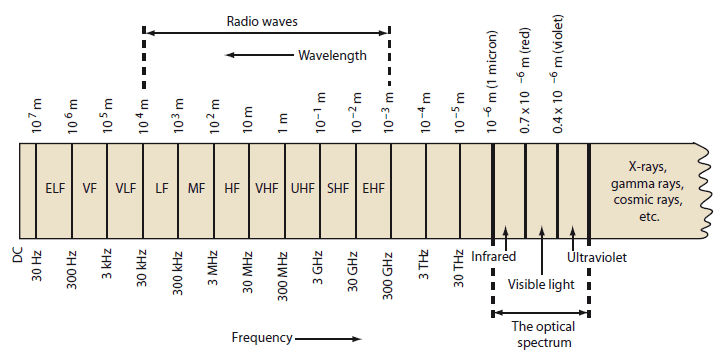
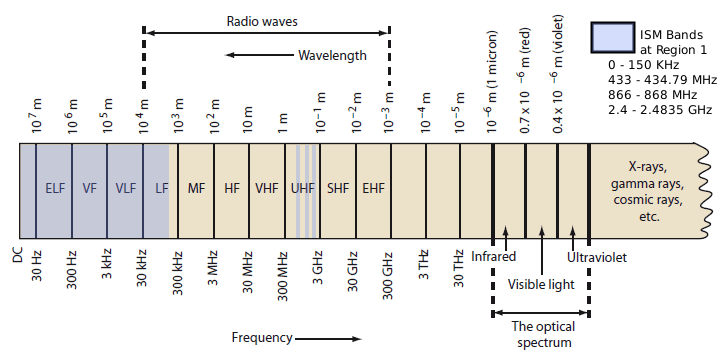
corregido cap 2

Changed region(s): [[0.0305, 0.3994, 0.2441, 0.676], [0.7933, 0.0615, 1.0, 0.338], [0.3967, 0.3994, 0.4577, 0.676]]

diff --git a/Capitulos/02StateOfArt.tex b/Capitulos/02StateOfArt.tex
@@ -48,14 +48,14 @@ from being used, even when this use would not cause noticeable interference to t
 
 \figuraEx{Vectorial/Capitulo2/spectrumuse}{width=.7\textwidth}{fig:spectrum}%
 {A snapshot of the spectrum utilization up to 6 GHz in an urban area: taken at
-mid-day with 20 kHz resolution taken over a time span of 50 microseconds with a 30
+mid-day with 20 kHz resolution over a time span of 50 microseconds with a 30
 degree directional antenna at Berkeley Wireless Research Center \cite{seung}.}{A snapshot of the spectrum utilization up to 6 GHz in an urban area at BWRC}
 
 The concept of \ac{CR} was first published by Joseph Mitola III and Gerald Q. Maguire, Jr. in 1999\cite{mitola1} and later on within Mitola's phD Dissertation in 2000\cite{mitola2}. It describes a novel paradigm for wireless communication in which a wireless device changes its transmission or reception parameters to communicate efficiently. This alteration of parameters is based on the active monitoring of several factors in the external and internal radio environment, such as radio frequency spectrum, application behavior, and network state. The idea was thought of as an ideal goal towards which a \ac{SDR} platform should evolve.
 
 The \ac{CR} is defined as an intelligent wireless communication system that is aware of its environment and uses the methodology of understanding-by-building\cite{brainempower} to learn from the environment and adapt to statistical variations in the input stimuli, with two primary objectives:
 \begin{itemize}
-\item Hihighly reliable communications.
+\item Highly reliable communications.
 \item Efficient utilization of the radio spectrum.
 \end{itemize}
 
@@ -78,9 +78,9 @@ Attending to some subtle differences between systems we can differenciate two ma
 \item \emph{Full Cognitive Radio  or Mitola radio}, in which every possible parameter observable by a wireless node is considered.\cite{mitola1}
 \end{itemize}    
 
-Although cognitive radio was initially thought of as full cognitive radio, most research work focuses on spectrum-sensing cognitive radio,  particularly in the TV bands. The great problem in spectrum-sensing cognitive radio is designing high-quality spectrum-sensing devices and algorithms for exchanging the so called knoledge domain \cite{brainempower}. The practical implementation of spectrum-management functions is a complex and multifaceted issue, since it must address a variety of technical and legal requirements.
+Although cognitive radio was initially thought of as full cognitive radio, most research work focuses on spectrum-sensing cognitive radio,  particularly in the TV bands. The great problem in spectrum-sensing cognitive radio is designing high-quality spectrum-sensing devices and algorithms for exchanging the so called knowledge domain \cite{brainempower}. The practical implementation of spectrum-management functions is a complex and multifaceted issue, since it must address a variety of technical and legal requirements.
 
-Picture \ref{fig:CWSNsoftModel} ilustrates the changes the \ac{OSI} model suffer when affected by cognition. \ac{CR} model can be referred to the first and second layers, thus the \emph{Phisical} and \emph{Link} layers. 
+Picture \ref{fig:CWSNsoftModel} illustrates the changes the \ac{OSI} model suffer when affected by cognition. \ac{CR} model can be referred to the first and second layers, thus the \emph{Physical} and \emph{Link} layers. 
 
 \figura{Vectorial/Todo}{width=.5\textwidth}{fig:CWSNsoftModel}%
 {CWSN protocol model}
@@ -103,7 +103,7 @@ The main functions of \ac{CR} devices are:\cite{dsa}\cite{CRfunctionality}
 
 \item \emph{Cooperative detection}: Refers to spectrum-sensing methods where information from multiple \ac{CR} users is integrated\cite{sensing}.
 
-\item \emph{Interference-based detection}. It tries to take advantage of the difference between the detected noise level and the maximum noise level the primary users can afford. In this way, if there is enough difference, the nodes might stablish \ac{RF} activity considered by primary users as just noise. This technique is not so common because of disagreements with primary users. 
+\item \emph{Interference-based detection}. It tries to take advantage of the difference between the detected noise level and the maximum noise level the primary users can afford. In this way, if there is enough difference, the nodes might establish \ac{RF} activity noticeable by primary users as simple noise. This technique is not so common because of disagreements with primary users. 
 \end{itemize}
 
 \item \emph{Power Control}: Power control is used for both, opportunistic spectrum access, and spectrum sharing \ac{CR} systems. On the one hand, opportunistic spectrum access techniques aim to find the cut-off level in \ac{SNR} supporting the channel allocation. On the other hand, \ac{CR} systems find imposing interference power constraints for the primary user's protection. In~\cite{threshold} a joint power control and spectrum sensing is proposed for capacity maximization.
@@ -312,15 +312,15 @@ The standard goal is a low-power communication among nearby devices without unde
 \begin{figure}[h]
 \centering
 
-\subfloat[ISA100.11 logo]{\label{fig:cap2:isa100}\includegraphics[width=0.2\textwidth]{Imagenes/Vectorial/Capitulo2/isalogo}}%
+\subfloat[ISA100.11 logo]{\label{fig:cap2:isa100}\includegraphics[width=0.18\textwidth]{Imagenes/Vectorial/Capitulo2/isalogo}}%
 \quad
-\subfloat[WiFi logo]{\label{fig:cap2:wifi}\includegraphics[width=0.2\textwidth]{Imagenes/Vectorial/Capitulo2/wifi}}%
+\subfloat[WiFi logo]{\label{fig:cap2:wifi}\includegraphics[width=0.18\textwidth]{Imagenes/Vectorial/Capitulo2/wifi}}%
 \quad
-\subfloat[ZigBee logo]{\label{fig:cap2:zigbee}\includegraphics[width=0.2\textwidth]{Imagenes/Vectorial/Capitulo2/zigbee}}%
+\subfloat[ZigBee logo]{\label{fig:cap2:zigbee}\includegraphics[width=0.18\textwidth]{Imagenes/Vectorial/Capitulo2/zigbee}}%
 \\
-\subfloat[WirelessHART logo]{\label{fig:cap2:hart}\includegraphics[width=0.4\textwidth]{Imagenes/Vectorial/Capitulo2/hart}}%
+\subfloat[WirelessHART logo]{\label{fig:cap2:hart}\includegraphics[width=0.3\textwidth]{Imagenes/Vectorial/Capitulo2/hart}}%
 \quad
-\subfloat[MiWi logo]{\label{fig:cap2:miwi}\includegraphics[width=0.4\textwidth]{Imagenes/Vectorial/Capitulo2/miwi}}%
+\subfloat[MiWi logo]{\label{fig:cap2:miwi}\includegraphics[width=0.3\textwidth]{Imagenes/Vectorial/Capitulo2/miwi}}%
 
 \caption{Common WSN protocols.}
 \label{fig:cap2:wsnprotocols}
@@ -343,7 +343,7 @@ Cognitive communication in a sensor network could not only help meet end-to-end 
 sensor networks that combines the advantage of opportunistic spectrum access at the physical layer, with cognitive communication among sensor nodes seamlessly across the network promises to be advantageous over existing design techniques. Figure \ref{fig:comparisoncr} shows a performance comparison between a standard \ac{WSN} comunnicating over 2.4 GHz and a \ac{CR}-based one in a simulated scenario. 
 
 
-\figuraEx{Vectorial/Capitulo2/comparisonCR}{width=.7\textwidth}{fig:comparisoncr}%
+\figuraEx{Bitmap/Capitulo2/comparisonCR}{width=.7\textwidth}{fig:comparisoncr}%
 {Number of hops per packet comparison in a CWSN simulated scenario described in \cite{crbasedwsn}}{Number of hops per packet comparison in a CWSN simulated scenario}
 
 However, research efforts have been discrete and cognitive techniques have focused on improving specific aspects of the network or benefiting specific applications.
@@ -424,7 +424,7 @@ NS3 would be written from scratch, not being compatible with NS2 generally. Deve
 
 Libraries and packages for cognitive simulation\cite{ns21} exist for these simulators, however, models, parameters, and results are still quite poor and inaccurate.  
 
-\item \emph{OMNeT++}\cite{omnet}. It is not a simulator itself but rather an extensible, modular, multiplatform, component-based C++ simulation library and framework. Instead of containing a real time cognitive radio test-bed for physical and link layer experiments, explicit and hardwired support for computer networks or other areas, it provides the infrastructure for writing such simulations. OMNeT++ provides a component architecture for models. Components (modules) are programmed in C++, then assembled into larger components and models using a high-level language (NED). 
+\item \emph{OMNeT++}\cite{omnet}. It is not a simulator itself but rather an extensible, modular, multiplatform, component-based C++ simulation library and framework. Instead of containing a real time cognitive radio environment for physical and link layer experiments, and explicit support for computer networks or other areas, it provides the infrastructure for writing such simulations. OMNeT++ provides a component architecture for models. Components (modules) are programmed in C++, then assembled into larger components and models using a high-level language (NED). 
 
 \figura{Vectorial/Capitulo2/omnetlogo}{width=.3\textwidth}{fig:omnetlogo}%
 {OMNeT++ Simulator Logo}
@@ -470,12 +470,9 @@ Several other simulators have been developed for \ac{WSN}. TOSSIM based on the T
 Nowadays there are not real devices for \ac{CWSN} applications yet. Current implementations respond to development platforms or test-beds, and still, variety of platforms is very scarce and poorly featured. Most of them suppose the first approaches on its field, so foundations to build over are still inmature and quickly changing. Hence, efforts focussed on hardware development, usuallyl more costly than software, remain quiet.
 
 The closest existing device to a \ac{CWSN} node is the \ac{FCD}\cite{fcd}\cite{ferpfc}, Figure \ref{fig:fcdadapted}, developed at \ac{LSI} in 2011. The \ac{FCD} is based on a Microchip 32-bits \ac{PIC} and includes three radio interfaces enabling access to the 2.4 GHz band and 868 MHz. MiWi and WiFi protocols operate over 2.4 GHz and a propietary protocol provided by \ac{AWD}\footnote{A radio interface developed by \ac{AWD}, a spin-off originated at \ac{LSI}, 
-oriented on solutions for energy efficiency, industrial control and intelligent environments.} operates over 868 MHz. The device gave the chance to develop and test algorithms, strategies and applications for \ac{CWSN}. Moreover, it allowed to analyse suitability for radio interfaces, compute capability and other components. It gave the strengths and weaknesses to stablish the fundamentals on future designs. Nevertheless, the device was just a first approach and it was still far to be a stable valuable test-bed platform. The node did not fully satisfy requirements in terms of low power consumption, cost and size, and communication capabilities.
+oriented on solutions for energy efficiency, industrial control and intelligent environments.} operates over 868 MHz. The device gave the chance to develop and test algorithms, strategies and applications for \ac{CWSN}. Moreover, it allowed to analyse suitability for radio interfaces, compute capability and other components. It gave the strengths and weaknesses to stablish the fundamentals on future designs. Nevertheless, the device was just a first approach and it was still far to be a stable valuable test-bed platform\cite{juapfc}. The node did not fully satisfy requirements in terms of low power consumption, cost and size, and communication capabilities.
 
 Consecutively, new hardware and software modules were incorporated to expand its features. These modules included a expansion board\cite{guillepfc} to try new transceiver options together with an optimized, \ac{CWSN} oriented firmware and a cognitive software module. This new modules claim for a new design integrating together all of them at one single module, fixing detected weaknesses and adding new or improved features. 
-
-%paper del labocon carenciasSSSSSSSSSSSSSSSSSSSSSSSSSSSSSSSSSSSSSSSSSSSSSSSSSSSSSSSSSSSSSSSS
-
 
 \figura{Bitmap/Capitulo2/fcdadapted}{width=.5\textwidth}{fig:fcdadapted}%
 {Picture of First Cognitive Device expanded}
@@ -519,10 +516,13 @@ To enable \ac{CR} capabilities on VESNA, a radio front-end was developed, the SN
 SNE-ISMTV-UHF contains a VHF and UHF TV band receiver based on the NXP TDA18219HN silicon tuner and was designed for spectrum sensing experimentation in TV white spaces. SNE-ISMTV-UHF can receive signals from 470 to 870 MHz with channel filter bandwidths between 1.7 MHz and 10 MHz. Using an analogue detector with a logarithmic response it can be used for energy detection experiments with the resolution bandwidth identical to the channel filter setting and approximately 50 ms per channel sampling. The detector is also coupled with an A/D converter optionally providing 1 Msample/s of the amplitude of the baseband signal. The samples can then be further digitally analyzed in software on the sensor node for more advanced spectrum
 sensing methods.
 
-
 SNE-ISMTV-868 and SNE-ISMTV-2400 are based on the TI CC1101 and TI CC2500 integrated circuits respectively and are identical in design and operation except for the supported frequency band. These transceivers contain software-reconfigurable radio front-ends operating from 780 and 930 MHz and from 2.40 to 2.48 GHz with channel bandwidths from 60 to 800 kHz and frequency-agile local oscillators with 75 ms settling time. They include an integrated logarithmic detector for energy detection and several modems that can be either connected to integrated packet handling hardware or provide a raw baseband digital stream to and from the CPU. This makes it possible to support experiments that require packet based as well as continuous transmissions.
 
+This platform does not offer frequency agility over several frequency bands since it just host possibilities for a single \ac{RF} front-end and this front-end support fix bands. It does not suppose a complete \ac{CWSN} solution.
+
 \item \emph{WaspMote}. It is an ultra low-power consumption sensor node developed and marketed by Libelium\footnote{http://www.libelium.com} based on an ATmega1281 microcontroller. It provides a socket for radio interfaces and several standarized input/output options. Libelium offers up to 60 different sensor expansion boards and 6 different radio options. An attachable board enables connection for two radio interfaces. It is thought to be a versatile node valid for a wide range of \ac{WSN} applications.
+
+WaspMote, however, does not give chances for more than two \ac{RI}s. Frequency agility is, hence, bounded to two spectrum bands. Moreover, it does not give software support for easy radio management and application development. It still supposes a poor \ac{CWSN} solution.
 
 \begin{figure}[h!]
 \centering
@@ -544,9 +544,11 @@ SNE-ISMTV-868 and SNE-ISMTV-2400 are based on the TI CC1101 and TI CC2500 integr
 \label{fig:cap2:waspmotepics}
 \end{figure}
 
-\item \emph{Meshlium}. Meshlium, also from Libelium, works as the Gateway of the Waspmote \ac{SN}. It reads the sensor frames coming from the nodes and store them in its internal data base and in external cloud systems located on the Internet. The frames coming from Waspmote are normally received by the 802.15.4/ZigBee radio and sent to the Internet using Ethernet, WiFi and 3G interfaces.
+\item \emph{Meshlium}. Meshlium, also from Libelium, works as the gateway of the Waspmote \ac{SN}. It reads the sensor frames coming from the nodes and store them in its internal data base and in external cloud systems located on the Internet. The frames coming from Waspmote are normally received by the 802.15.4/ZigBee radio and sent to the Internet using Ethernet, WiFi and 3G interfaces.
 
-\begin{figure}[h!]
+Even though Meshlium posses several interfaces, it can not be considered a \ac{WSN}. This platform is extrictly thought as a gateway, so it is not a valid \ac{CWSN} solution.
+
+\begin{figure}[!h]
 \centering
 %
 \begin{SubFloat}
@@ -568,15 +570,38 @@ SNE-ISMTV-868 and SNE-ISMTV-2400 are based on the TI CC1101 and TI CC2500 integr
 
 \end{itemize}
 
-Other deployed \ac{CWSN} devolpment platforms placed at researching centers, so called test-beds, are employed to obtain data and try algorithms to feedback simulators and node devices themselves. Most of here mentioned test-beds do not include nodes with access to several radio bands, but rather several kind of nodes having different single interfaces each. Main current test-beds are: 
+European Commission \ac{FP7}\cite{fp7} includes two major projects involving \ac{CR} technologies: CogEU\cite{cogeu} and CREW\cite{crew}. CogEu looks at technical, business and regulatory issues which arise in exploiting TV White Spaces across Europe, while CREW main target is to establish an open federated test platform, which facilitates experimentally-driven research on advanced spectrum sensing, cognitive radio and cognitive networking strategies in view of horizontal and vertical spectrum sharing in licensed and unlicensed bands.
+
+The CREW platform incorporates 5 individual wireless test-beds\footnote{Devolpment platforms consisting on a set of interacting devices placed at researching centers employed to obtain data and try algorithms to feedback simulators and node devices themselves.}, Figure \ref{fig:cap2:crew}, incorporating diverse wireless technologies (heterogeneous \ac{ISM}, heterogeneous licensed, cellular, wireless sensor, heterogeneous outdoor) augmented with State-of-the-Art cognitive sensing platforms. Three out of these five test-beds are involved in \ac{WSN} technologies: w-iLab.t, TWIST, and LOG-a-TEC test-beds. These three platforms are explained further on together with the remaining test-bed platforms.
+
+\figura{Bitmap/Capitulo2/crew}{width=.7\textwidth}{fig:cap2:crew}{CREW Project scheme overview.}
+
+Main current \ac{CWSN} test-beds are described below. Most of here mentioned test-beds do not include real \ac{WSN} nodes. If they do, these nodes still do not posses access to several radio bands, but rather several kind of nodes posses different single interfaces each:  
 
 \begin{itemize}
 \item \emph{TWIST (TKN Wireless Indoor Sensor network Test-bed)}\cite{twist}. Developed by the \ac{TKN} at the \ac{TU} Berlin, is one of the largest academic test-beds for experimenting with \ac{WSN} applications at indoor deployment scenarios. It provides basic services like node configuration, network-wide programming, out-of-band extraction of debug data and gathering of application data, as well as several novel features  such as active power supply control of the nodes. The self-configuration capability, the use of hardware with standardized interfaces and open-source software makes the TWIST architecture scalable, affordable, and easily replicable. TWIST can be accessed locally or remotely via web interface.
 
 \figura{Bitmap/Capitulo2/twist}{width=.7\textwidth}{fig:twistmap}%
-{One floor deployment of TWIST test-bed}
+{One floor deployment of TWIST test-bed.}
 
-It spans the three floors, more than 40 rooms, of an office building at the TU Berlin campus, resulting in more than 1500 m$^{2}$ of instrumented office space. Currently the setup is populated with 102 TmoteSky\cite{tmotesky} nodes operating over 2.4 GHz and 102 eyesIFX\cite{eyes} nodes over 868 MHz resulting in a fairly regular grid deployment pattern with intra node distance of 3m. A set of low-cost USB WiSpy Spectrum Analyzers for the 2.4 GHz band dig over data and store it on a repository, this information is used as data-base for the \ac{CR} algorithms and spectrum use optimization.
+It spans the three floors, more than 40 rooms, of an office building at the TU Berlin campus, resulting in more than 1500 m$^{2}$ of instrumented office space. Currently the setup is populated with 102 TmoteSky\cite{tmotesky} nodes operating over 2.4 GHz and 102 eyesIFX\cite{eyes} nodes over 868 MHz resulting in a fairly regular grid deployment pattern with intra node distance of 3 m. A set of low-cost USB WiSpy Spectrum Analyzers for the 2.4 GHz band dig over data and store it on a repository, this information is used as data-base for the \ac{CR} algorithms and spectrum use optimization.
+
+It must be clarified that nodes employed at TWIST lack frequency agility beyond their single frequency band. Hence, none of them can be considered \ac{CWSN} nodes. Even though the test-bed supposes an approach, it is not yet a completely valid and trustable \ac{CWSN} platform.  
+
+\item \emph{LOG-a-TEC}\cite{logatec}. The Cognitive radio experimentation part of the LOG-a-TEC testbed is located in the municipality of Logatec, Slovenia. LOG-a-TEC is an outdoor experimental facility supporting cognitive radio networking experimentation in ISM and TV bands. It is equipped with 50 VESNA\cite{vesna} platforms and VSE-ISMTV\cite{sneismtv} boards grouped in two clusters: one in city center and one in the industrial zone as displayed in the Figure \ref{fig:cap2:logatec}. The nodes support experimentation in ISM 868 MHz (blue), ISM 2.4 GHz (red) and TV 42 - 870 MHz (green). A small mirror, consisting of 10 nodes, is also available at Institut "Jozef Stefan" campus.
+
+Same with TWIST testbed, nodes employed here lack frequency agility beyond their single frequency band. Hence, none of them can be considered \ac{CWSN} nodes.
+ 
+\figura{Bitmap/Capitulo2/logatec}{width=.6\textwidth}{fig:cap2:logatec}{LOG-a-TEC nodes clusters deployment}
+
+\item \emph{w-iLab.t} It includes both a wireless mesh and sensor network infrastructure. These networks can interact with each other, making it possible to test advanced scenarios such as using the mesh network as a backbone for the sensor network. The test-bed is equipped with a custom designed hardware solutions, called EE (Environment Emulator). Using the EE, it is possible to emulate the behavior of any type of sensor or actuator without the need for real sensor/actuator hardware. 
+The w-iLab.t testbed is deployed in an office building of 18 x 90 m and is spread out over three floors. It consists out of 200 node locations, Figure \ref{fig:wilab}, at fixed locations at the iMinds\cite{iminds} office premises. 
+
+\figura{Bitmap/Capitulo2/wilab}{width=.6\textwidth}{fig:wilab}{Node locations of the w-iLab.t tes-tbed }
+
+Every w-iLab.t node is generic and is equipped with one or more TmoteSky\cite{tmotesky} nodes, an iNode with 2 WiFi 802.11 radios, the environment emulator and a Bluetooth interface. iNodes are Alix 3C3\cite{alix} devices running Linux. These are mini PC's equipped with Ethernet, USB, serial, vga, audio and two IEEE 802.11 a/b/g interfaces. Finally, the Environment Emulator is located in between the iNode and the TmoteSky. 
+
+Together with the previous mentioned test-beds, devices used for w-iLab do not meet \ac{CWSN} features since they are either standard \ac{WSN} nodes or complete mini PC modules.
 
 \item \emph{VT-CORNET (Virginia Tech COgnitive Radio NEtwork Test-bed)}\cite{vtcornet}. It is a collection of \ac{CR} nodes deployed throughout a building on the Virginia Tech main campus. The test-bed is openly available for the purposed of performing advanced \ac{CRN}. The test-bed consists of a total of 48 static \ac{SDR} nodes based on USRP2\footnote{The \ac{USRP} family features a modular architecture with interchangeable daughterboard modules that serve as the RF front end.}, located in the ceiling throughout the ICTAS building, being placed 12 nodes per floor. In addition to the static nodes, low-power mobile nodes will also be available in order provide a research environment that accomodates a wide variety of research topics.
 
@@ -585,10 +610,7 @@ It spans the three floors, more than 40 rooms, of an office building at the TU B
 
 Remotely accessible, emphasis is on cognitive engine design, self-organizing networking algorithms, and network security. The test-bed enables researchers to implement and test their algorithms, protocols, applications, and hardware technologies within a realistic environment.
 
-\item \emph{LOG-a-TEC}\cite{logatec}. The Cognitive radio experimentation part of the LOG-a-TEC testbed is located in the municipality of Logatec, Slovenia. LOG-a-TEC is an outdoor experimental facility supporting cognitive radio networking experimentation in ISM and TV bands. It is equipped with 50 VESNA\cite{vesna} platforms and VSE-ISMTV\cite{sneismtv} boards grouped in two clusters: one in city center and one in the industrial zone as displayed in the Figure \ref{fig:cap2:logatec}. The nodes support experimentation in ISM 868 MHz (blue), ISM 2.4 GHz (red) and TV 42 - 870 MHz (green). A small mirror, consisting of 10 nodes, is also available at Institut "Jozef Stefan" campus.
-
-\figura{Bitmap/Capitulo2/logatec}{width=.6\textwidth}{fig:cap2:logatec}{LOG-a-TEC nodes clusters deployment}
-
+Devices used at this platform are not even real \ac{WSN} nodes. Despite their possibilities for frequency mobility, the solution implemented in this test-bed is not a real \ac{CWSN} implementation.  
 
 \item \emph{FIT/CorteXlab - Cognitive Radio Test-bed}\cite{fitcortex}. This test-bed, still under deployment, will be hosted at INSA-Lyon in France. CorteXlab will suppose one more researching center of the Future Internet of Things project\cite{fit}. CorteXlab will use the network architecture developed in SensLAB\cite{senslab} and will integrate SDR nodes to offer a remotely accessible development platform for distributed \ac{CR}. Reconfigurability, compatibility, coexistence and even cooperation between \ac{SDR} nodes will be evaluable. A large set of heterogeneous \ac{SDR} nodes (\ac{MIMO} nodes, \ac{SISO} nodes and \ac{WSN} nodes) together with classical sensor nodes will permit a full experimental evaluation.
 
@@ -597,9 +619,11 @@ Remotely accessible, emphasis is on cognitive engine design, self-organizing net
 The test-bed will be installed in 180 m$^{2}$ shielded room (isolated from any external interference) and also partly covered with \ac{EM} absorbing material. Depending on the set of enabled frequencies, the design of the room will enable to control the radio channel characteristics (number of paths, delays, etc...) and to ensure a high level of reproducibility of experimentations.
 
 
- \figura{Bitmap/Capitulo2/cortexlabmap}{width=.5\textwidth}{fig:cortexlabmap}{CorteXlab test-bed deployment}
+\figura{Bitmap/Capitulo2/cortexlabmap}{width=.5\textwidth}{fig:cortexlabmap}{CorteXlab test-bed deployment}
 
 Nodes will be uniformly distributed. These nodes will be able to accept \ac{PHY} layer implementations on both hardware, i.e. \ac{FPGA}, and software on general purpose CPUs.  Furthermore, they will be capable of outputing performance metrics, such as throughput, \ac{BER} and power consumption. The nodes are interconnected through a high speed ethernet link, in order to allow for cooperation and sharing of information. A unified server will also be available for starting, coordinating and collecting the results of experimentations. The experimentation themselves can be from \ac{PHY} layer up, including the possibility of cross-layer interactions.
+
+Despite the large amount of devices employed at this test-bed platform that combines different architectures and nodes, none of them are real \ac{CWSN} devices. Frequency mobility is achieve over \ac{SDR} modules, which can not even be considered for \ac{WSN} implementations. \ac{SDR} devices gather features not \ac{WSN}-compatible that collide with low-resources and low-consumption natures.
 \end{itemize}
 
 Standardization is at the core of the current and future success of cognitive radio. The IEEE 802.22\cite{80222web} working group is developing what will be first cognitive radio-based international standard for \ac{WRAN} with tangible frequency bands for its operation. It will operate on unused television channels. One system such as Unlicensed-Band Cognitive Radio, which can only utilize unlicensed parts of the \ac{RF} spectrum, is described in the IEEE 802.15 Task Group 2\cite{802152} specifications. This standard focus on the coexistence of IEEE 802.11 and Bluetooth. Many other standards such as WiFi (IEEE 802.11), Zigbee (IEEE 802.15.4), and WiMAX (IEEE 802.16) already include some degree of CR technology today. 

diff --git a/Capitulos/01Introduction.tex b/Capitulos/01Introduction.tex
@@ -30,12 +30,15 @@ A \ac{WSN} consists of a number of sensors spread across a geographical area. Ea
 
 Together with this significant growth in the last years, it was a huge and yet increasing wireless networks and sevices deployment caused by the growth in the ``Internet of Things'' connectivity phenomenon\cite{internetofthings}. Wireless communications, specially due to wireless \ac{M2M} connections, is currently one of the hottest and fastest growing segments of electronics. 
 
-The increasing demand for wireless communication, in addition to an inefficient assignment of the spectrum\cite{wpanIssues}, has caused saturation on certains bands of the radio spectrum. Some of the most heavily used bands are \ac{ISM} bands which are unlincesed, free of cost frequencies. Most \ac{WSN} solutions operate over these \ac{ISM} bands, like the 2.4 GHz band, also used by Wi-Fi, Bluetooth, or IEEE 802.15.4 devices. 
+The increasing demand for wireless communication, in addition to an inefficient assignment of the spectrum\cite{wpanIssues}, has caused saturation on certains bands of the radio spectrum. Some of the most heavily used bands are \ac{ISM} bands which are unlincesed, free of cost frequencies. Most \ac{WSN} solutions operate over these \ac{ISM} bands, like the 2.4 GHz band, also used by Wi-Fi, Bluetooth, or IEEE 802.15.4 devices. \ac{ISM} bands are defined by region by the \ac{ITU} and local goverments ultimately. Figure \ref{fig:cap1:ituregions} illustrates the different defined regions and Figure \ref{fig:cap1:spectrum} gives a general view of the spectrum and \ac{ISM} bands over region 1.
 
-\figura{Bitmap/Capitulo1/spectrum}{width=.7\textwidth}{fig:cap1:spectrum}%
+\figura{Bitmap/Capitulo1/regions}{width=.7\textwidth}{fig:cap1:ituregions}%
+{World different regions defined by the International Telecommunication Union}
+
+\figura{Bitmap/Capitulo1/spectrum}{width=.9\textwidth}{fig:cap1:spectrum}%
 {Electromagnetic frequency spectrum. Radio spectrum covers under 300 GHz frequencies}
 
-Spectrum saturation is reflected over the increasing \ac{RF} interferences and other undesirable effects like noise, with a consistent impact over the \ac{TX} power required, \ac{QOS}, etc. Nowadays, techniques focused on expanding spectrum efficiency over communications, such as those related to modulation, power control or link adaptation, seem exhausted, and new long-term solutions are required****\cite{}. 
+Spectrum saturation is reflected over the increasing \ac{RF} interferences and other undesirable effects like noise, with a consistent impact over the \ac{TX} power required, \ac{QOS}, etc. Nowadays, techniques focused on expanding spectrum efficiency over communications, such as those related to modulation, power control or link adaptation, seem exhausted, and new long-term solutions are required. 
 
 To address this challenge, new techniques such as \ac{CR} arise. \ac{CR} was introduced by Mitola in 1999 \cite{mitola1}
 and 2000\cite{mitola2}. It integrates into communication networks concepts such as spectrum sensing, self-learning, self-management, 
@@ -45,14 +48,14 @@ The concept of \ac{CN} describes a \ac{WN} aware of its environment and able to 
 
 \ac{WSN}s, among other technologies, maintain a high demand for cognitive networking. Their imposed power consumption constraints and hard operation conditions require an efficient operation mode, especially for their wireless communications, since these normally constitute the most energy-consumming task. However, there are also challenges to face\cite{challenges}, such as an adaptive and \ac{QOS}-aware routing, or the distribution of control data.
 
-*********Despite the potential of \ac{CWSN}, they are not deeply explored yet. Real or simulated scenarios scarcely exist, but 
+Despite the potential of \ac{CWSN}\cite{cwsn}, they are not deeply explored yet. Real or simulated scenarios scarcely exist, but 
 realistic platforms are crucial to the improvement and development of this new field. The shortage and undevelopment of \ac{CWSN} devices
 or test-beds contributes to the scarcity of results in this area. 
 
 One of the current \ac{CWSN} node platforms is the \ac{FCD}, developed in 2011\cite{fcd} by researchers at the laboratory where this project is framed, the \ac{LSI}. The \ac{LSI} belongs to the \ac{DIE} within the \ac{ETSIT} at \ac{UPM}. This laboratory hosts researching lines related to embedded systems, \ac{WSN}s, \ac{CWSN}s, or security. The implemented device become the first real generic platform to study \ac{CWSN}s hosting three radio transceivers, but it was just a initial approach. The \ac{FCD} was still far from being a very valuable researching test-bed platform. This platform did not fully satisfy requirements in terms of low power consumption, functionality, cost and size, and communication capabilities. 
 
 Continuing with the development of the \ac{FCD}, some software implementations were carried out at \ac{LSI}. A combined protocol stack for
-three different transceivers \cite{juanpfc}, including a \ac{HAL}, was created. This firmware offers ease of use to the researchers facing communication tasks. It also supposes memory and resources savings compared with the previous scheme, based on three protocol stacks. In order to deal with cognitive strategies and algorithmics, in addition, a software module that runs over the firmware was launched. This module, called \ac{CRMODULE}\cite{}************ implements the theoretical model described in \cite{conbrok} and is a crucial achievement for \ac{CWSN} development.  
+three different transceivers \cite{juanpfc}, including a \ac{HAL}, was created. This firmware offers ease of use to the researchers facing communication tasks. It also supposes memory and resources savings compared with the previous scheme, based on three protocol stacks. In order to deal with cognitive strategies and algorithmics, in addition, a software module that runs over the firmware was launched. This module, called \ac{CRMODULE}\cite{guillepfc} implements the theoretical model described in \cite{conbrok} and is a crucial achievement for \ac{CWSN} development.  
 
 This dissertation describes the development and operation of the \ac{CNGD}, a platform for \ac{CWSN} development. It includes features and capabilities not found on current devices. \ac{CNGD} must enable and promote \ac{CWSN}s, allowing test strategies and better investigation deployments.
 

diff --git a/Capitulos/05ImplementationStudy.tex b/Capitulos/05ImplementationStudy.tex
@@ -222,7 +222,7 @@ U1 &  & PIC32MX675F256L-80I/PT & TQFP & 1\\ \hline
 hd40 &  & 10-pin Stackable Header & & 4\\ \hline
 L1 & 4.7mH & Inductance & 1210 & 1\\ \hline
 PC\_434, & & \multirow{2}{*}{ADG701LBRTZ - SWITCH }& \multirow{2}{*}{SOT-23} & \multirow{2}{*}{3} \\
-868, 240 & & & &\\ \hline
+868, 2400 & & & &\\ \hline
 conv3.3 &  & MCP1603T-330I/OS & TSOT & 1\\ \hline
 J2 &  & Terminal Block  &  & 1\\ \hline
 J3 &  & DC Female Connector & Through hole & 1\\ \hline
@@ -318,7 +318,13 @@ This module offers simplicity and does not require for much testing. Basically, 
 
 Connecting the RS-232 connector to a computer and with a suitable software, such as minicom\footnote{Minicom is a text-based modem control and terminal emulation program for Unix-like operating systems. A common use for minicom is when setting up a remote serial console.}, and configuring properly the communication parameters, is enough to receive data from the running application.
 
-Usually, communication parameters are set as follows: ************************* (However these can be change at the firmware configuration).
+Serial communication parameters can be changed at the firmware configuration. However, a standard configuration is as follows: 
+\begin{itemize}
+\item Bit rate: 115200 bits/s
+\item Bits per framing: 8 bits
+\item Parity: No
+\item Stop bits: 1 bit
+\end{itemize}
 
 %-------------------------------------------------------------------
 \subsection{Final results}
@@ -360,7 +366,7 @@ Minimal track spacing is set to 0.2 mm while the tracks width is is from 0.2 mm 
  & \multicolumn{1}{c}{\textbf{Value}}& & \multicolumn{1}{c}{\textbf{Type}} & \\ \hline \hline
 J1 &  & Terminal Block  &  & 1\\ \hline
 R3 & 5K & Resistor & 0603 & 1 \\ \hline
-R4 ** & ** & 1W Resistor & Axial & 1\\ \hline
+R4 & 3.9 $\Omega$ & 1W Resistor & Axial & 1\\ \hline
 C1 & 10 $\mu$F & Terminal Block &  & 1\\ \hline
 U1 &  & LM317AMDT - IC, V. REG.  & TO-220 & 1\\ \hline
 hd40 &  & 10-pin Stackable Header & & 4\\ \hline
